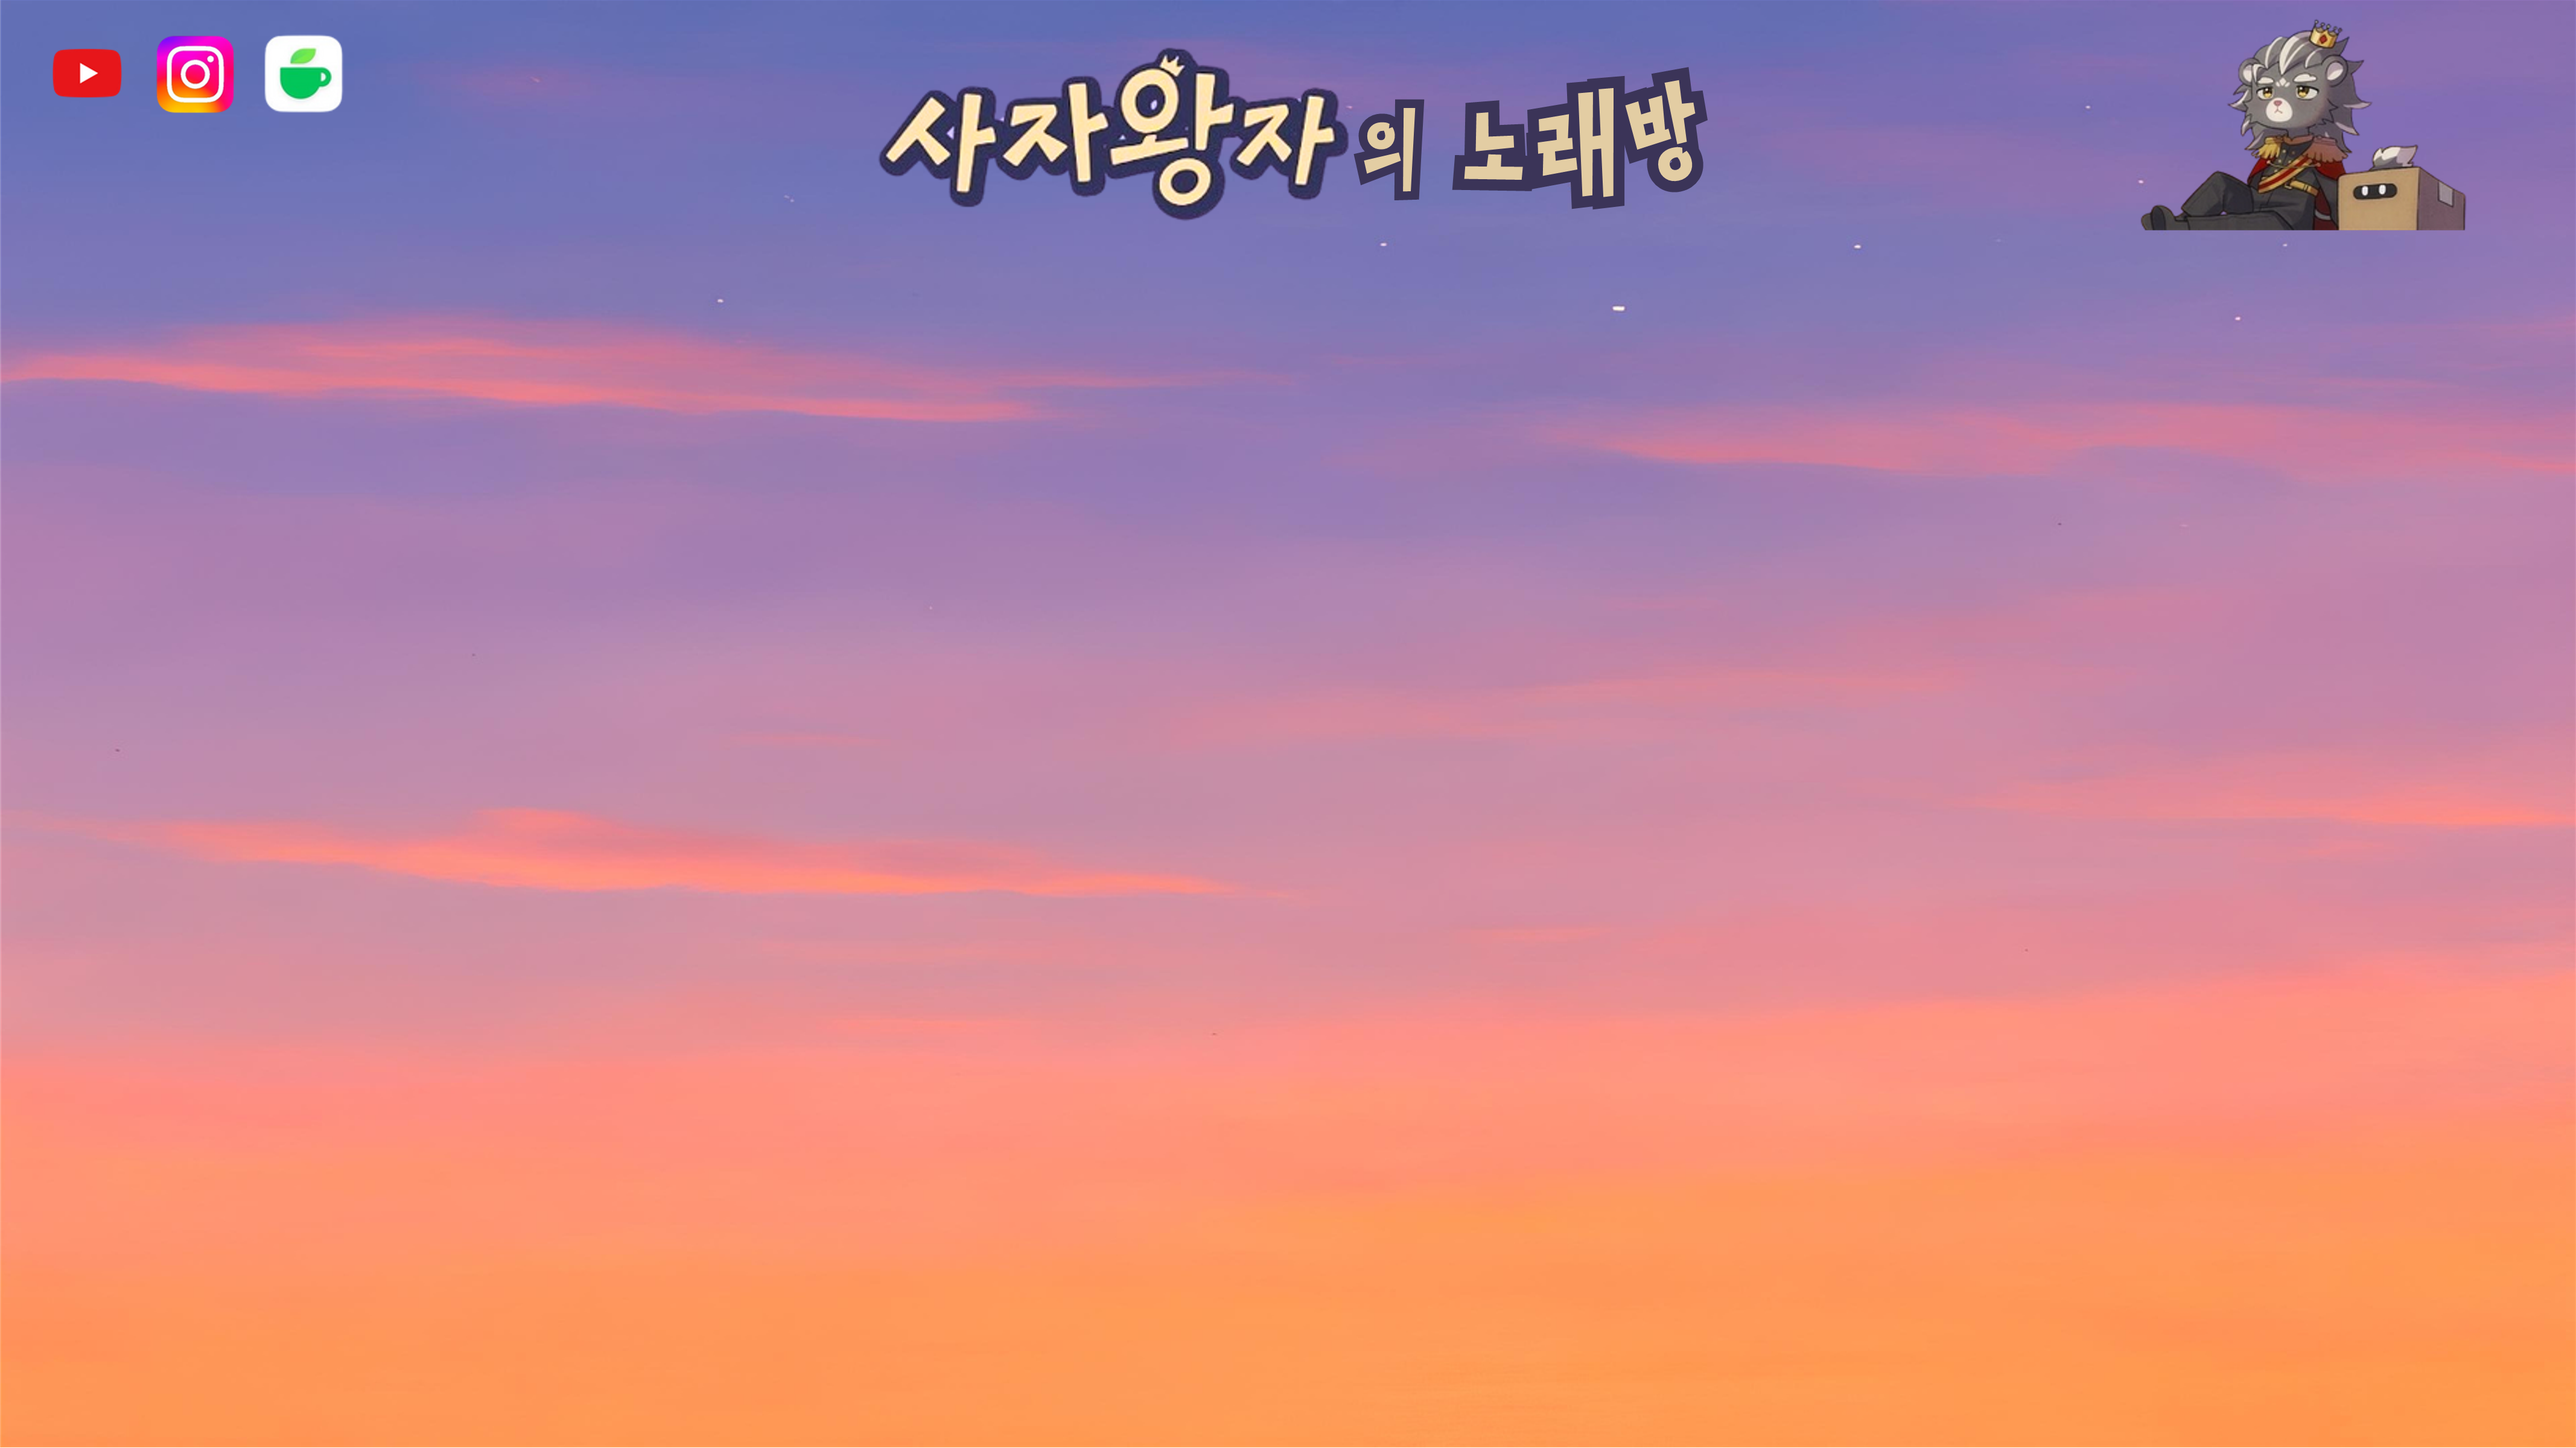
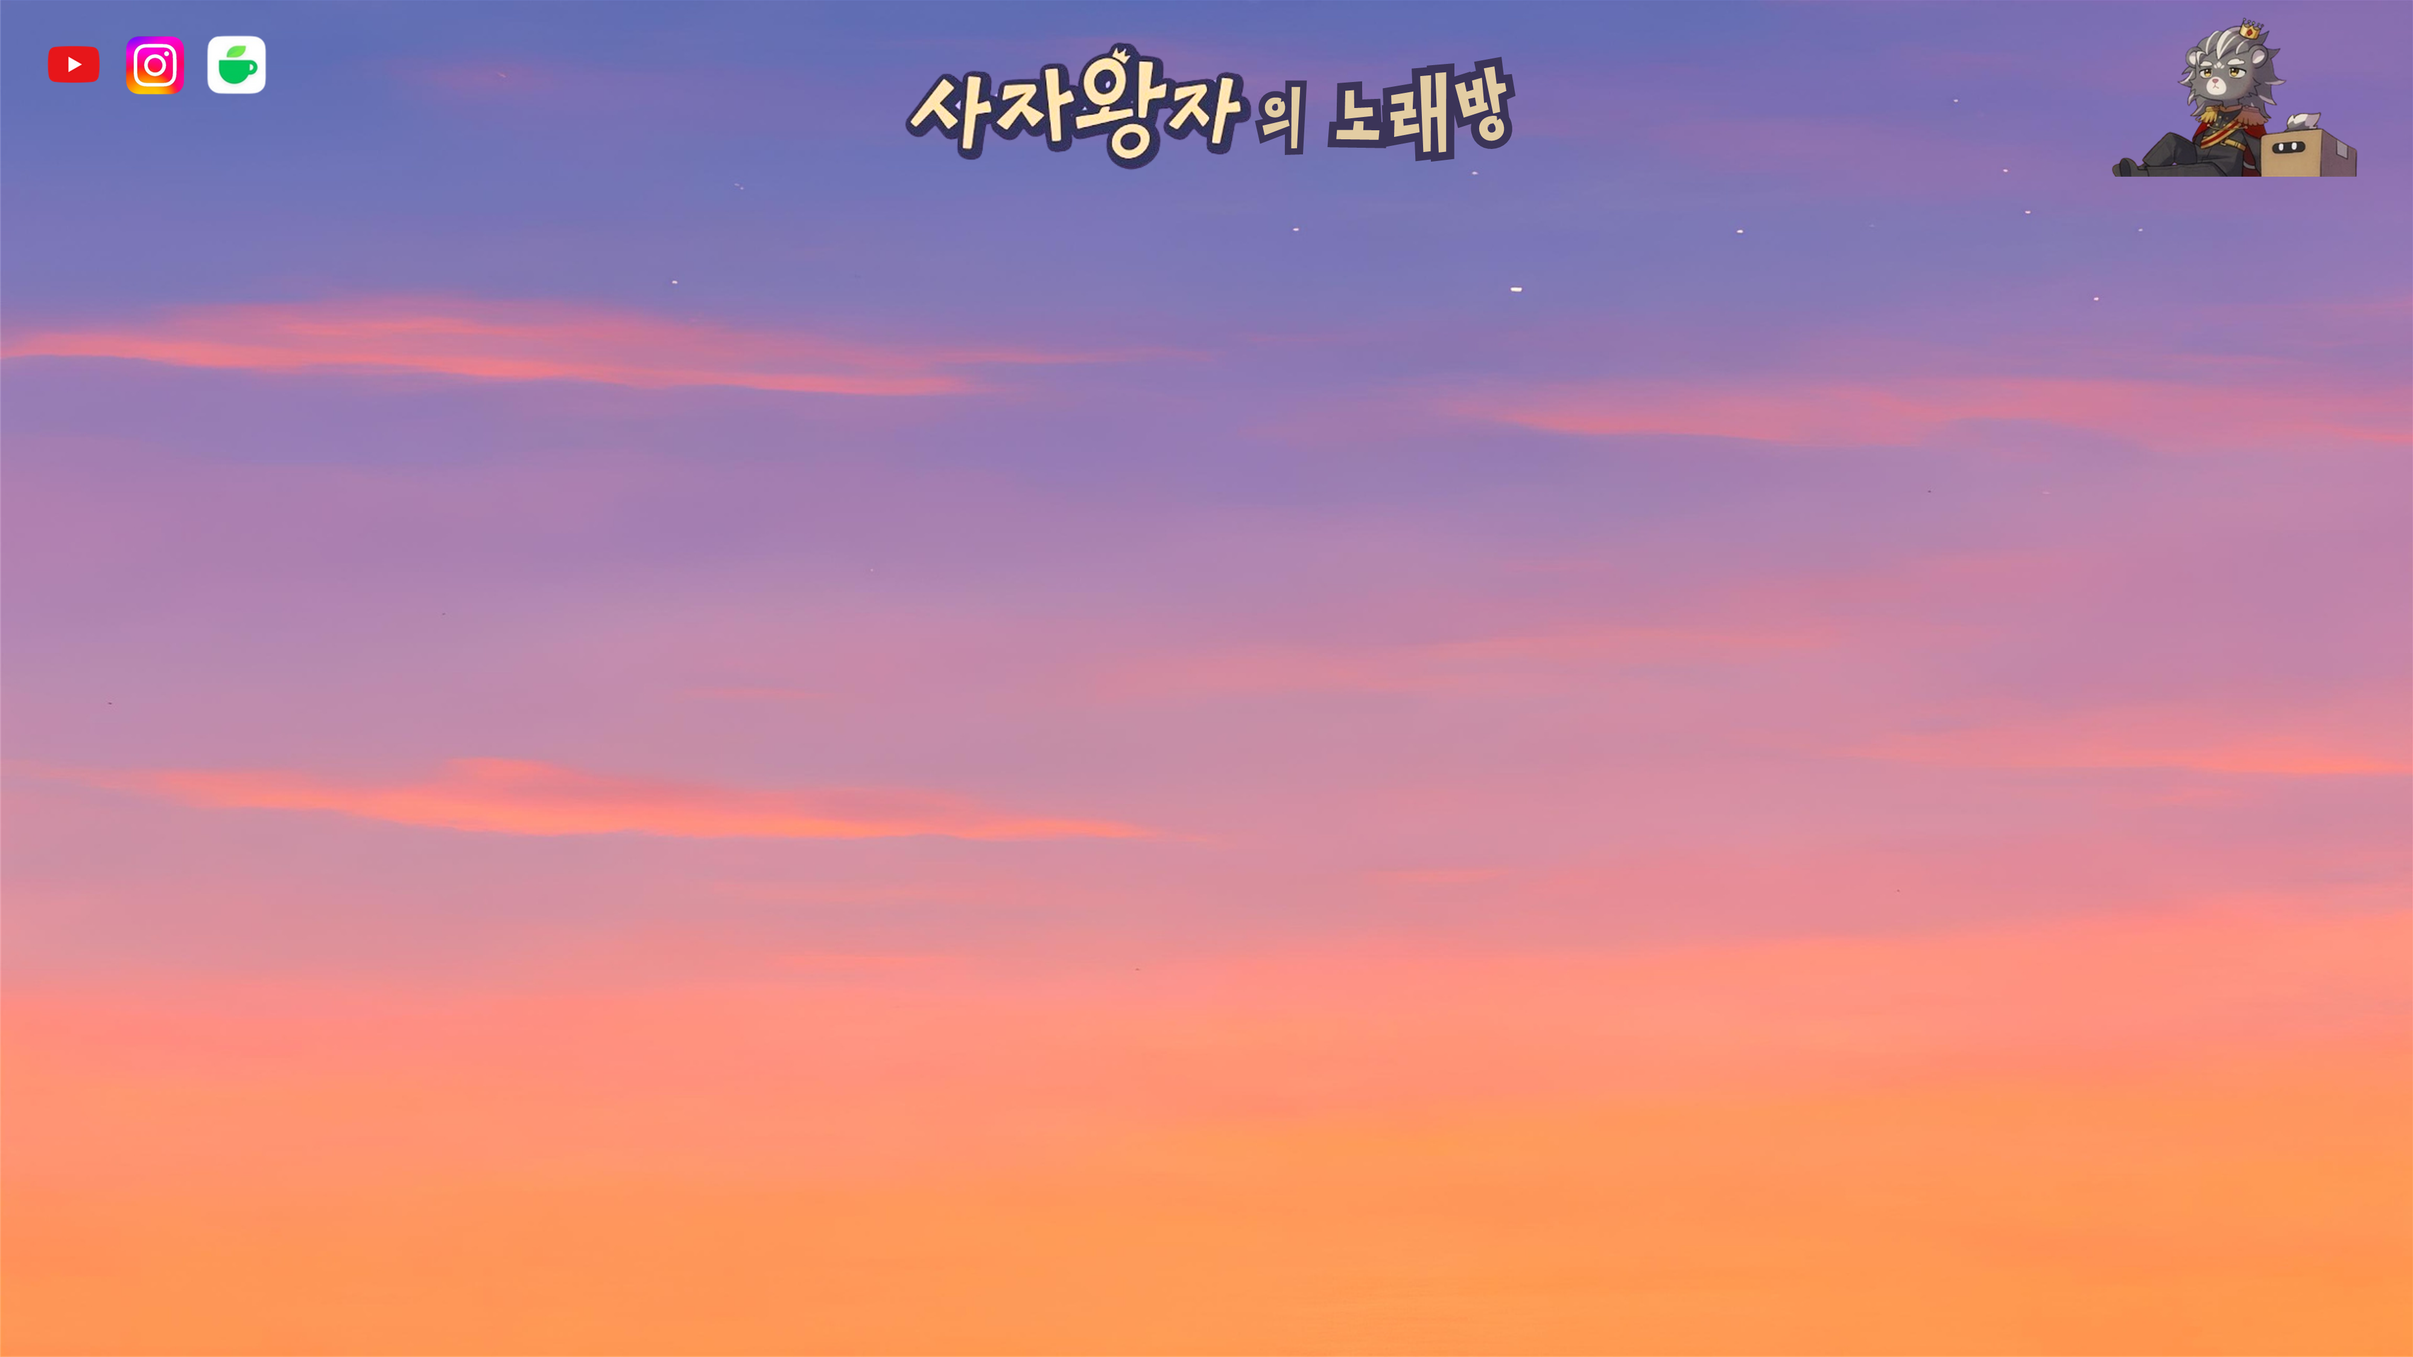
feat: 배경 이미지 bg.png 추가

Changed region(s): [[0.3438, 0.0311, 0.6875, 0.1556], [0.8125, 0.0, 1.0, 0.1867], [0.0312, 0.0, 0.1562, 0.0933]]

diff --git a/index.html b/index.html
@@ -3,21 +3,24 @@
 <head>
 <meta charset="utf-8" />
 <meta name="viewport" content="width=device-width,initial-scale=1" />
-<title>사자왕자 · 포스터 그리드</title>
+<title>사자왕자의 노래방 | 포스터 그리드</title>
 <style>
-  :root { --gap: 8px; --tile-ratio: 56.25%; --maxw: 1600px; }
+  :root { --gap: 8px; --tile-ratio:  56.25%; --maxw: 1600px; }
   * { box-sizing: border-box; }
-  body { margin:0; font-family: system-ui, "Noto Sans KR", sans-serif; color:#111;
-         background: url("./assets/bg.png") center / cover fixed no-repeat; }
-  /* 가독성 오버레이 (선택) */
-  body::before{
-    content:""; position:fixed; inset:0; pointer-events:none;
-    background: rgba(255,255,255,.05);
+  body {
+    margin:0;
+    font-family: system-ui, "Noto Sans KR", sans-serif;
+    background: #fff url('./assets/bg.png') no-repeat center center / cover;
+    color:#111;
   }
+  header { padding:18px 14px; text-align:center; border-bottom:1px solid #eee; }
+  .title { font-weight:900; font-size:22px; }
+  .subtitle { margin-top:6px; font-size:13px; opacity:.7; }
   .wrap { max-width: var(--maxw); margin:0 auto; padding:24px 12px 28px; }
+
   .grid { display:grid; grid-template-columns:repeat(10,1fr); gap:var(--gap); }
   .tile { position:relative; overflow:hidden; border-radius:12px; border:1px solid #eee; background:#f7f7f7; }
-  .tile::before { content:""; display:block; padding-top: var(--tile-ratio); }
+  .tile::before { content:""; display:block; padding-top:var(--tile-ratio); }
   .tile img { position:absolute; inset:0; width:100%; height:100%; object-fit:cover; transition:transform .2s; }
   .tile:hover img{ transform:scale(1.03); }
   .label{ position:absolute; left:0; right:0; bottom:0; padding:6px 8px; font-size:12px; color:#fff;
@@ -25,7 +28,15 @@
 
   @media (max-width:900px){
     .grid{ grid-template-columns:repeat(2,1fr); }
-    .wrap{ padding:16px 10px 24px; }
+    .wrap{ padding:12px 10px 24px; }
+    .title{ font-size:18px; }
+  }
+
+  body::before{
+    content:"";
+    position:fixed; inset:0;
+    background: rgba(255,255,255,.05);
+    pointer-events:none;
   }
 </style>
 </head>
@@ -34,46 +45,43 @@
     <div id="grid" class="grid"></div>
   </main>
 
-  <!-- 1) 데이터 먼저: 절대경로 + 캐시버스터 -->
-  <script src="/assets/data/tracks.js?v=20250812"></script>
+<script src="./assets/data/tracks.js"></script>
 
-  <!-- 2) 안전 렌더 스크립트 -->
-  <script>
-  (function () {
-    const grid = document.getElementById('grid');
-    if (!grid) return;
+<script>
+(function () {
+  const grid = document.getElementById('grid');
+  if (!grid) return;
 
-    function msg(t) {
-      grid.innerHTML = '<div style="padding:24px;font-weight:700;color:#fff;">'+t+'</div>';
+  function msg(t) { grid.innerHTML = '<div style="padding:24px;font-weight:700;color:#fff;">'+t+'</div>'; }
+
+  try {
+    const data = (window.TRACKS && Array.isArray(window.TRACKS)) ? window.TRACKS : [];
+    if (!data.length) {
+      console.error('TRACKS 비어있음 또는 로드 실패');
+      msg('데이터가 없습니다. assets/data/tracks.js를 확인하세요.');
+      return;
     }
 
-    try {
-      const data = (window.TRACKS && Array.isArray(window.TRACKS)) ? window.TRACKS : [];
-      if (!data.length) {
-        console.error('TRACKS 비어있음 또는 로드 실패');
-        msg('데이터가 없습니다. assets/data/tracks.js를 확인하세요.');
-        return;
-      }
+    const frag = document.createDocumentFragment();
+    data.forEach(item => {
+      const a = document.createElement('a');
+      a.className = 'tile';
+      if (item.ratio) a.style.setProperty('--tile-ratio', item.ratio);
+      a.href = './detail.html?id=' + encodeURIComponent(item.id);
+      a.innerHTML = `
+        <img loading="lazy" src="${item.thumb}" alt="${item.artist} — ${item.title}">
+        <div class="label">${item.artist} — ${item.title}</div>
+      `;
+      frag.appendChild(a);
+    });
+    grid.innerHTML = '';
+    grid.appendChild(frag);
+  } catch (e) {
+    console.error(e);
+    msg('스크립트 오류가 발생했습니다. 콘솔을 확인하세요.');
+  }
+})();
+</script>
 
-      const frag = document.createDocumentFragment();
-      data.forEach(item => {
-        const a = document.createElement('a');
-        a.className = 'tile';
-        if (item.ratio) a.style.setProperty('--tile-ratio', item.ratio);
-        a.href = './detail.html?id=' + encodeURIComponent(item.id);
-        a.innerHTML = `
-          <img loading="lazy" src="${item.thumb}" alt="${item.artist} — ${item.title}">
-          <div class="label">${item.artist} — ${item.title}</div>
-        `;
-        frag.appendChild(a);
-      });
-      grid.innerHTML = '';
-      grid.appendChild(frag);
-    } catch (e) {
-      console.error(e);
-      msg('스크립트 오류가 발생했습니다. 콘솔을 확인하세요.');
-    }
-  })();
-  </script>
 </body>
 </html>
